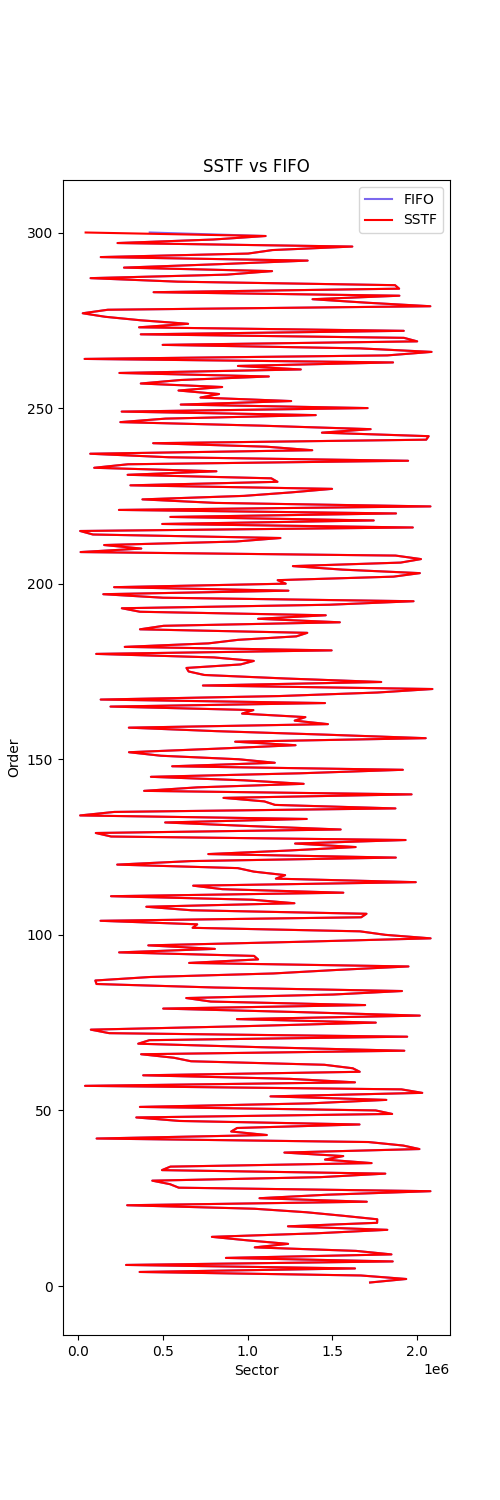
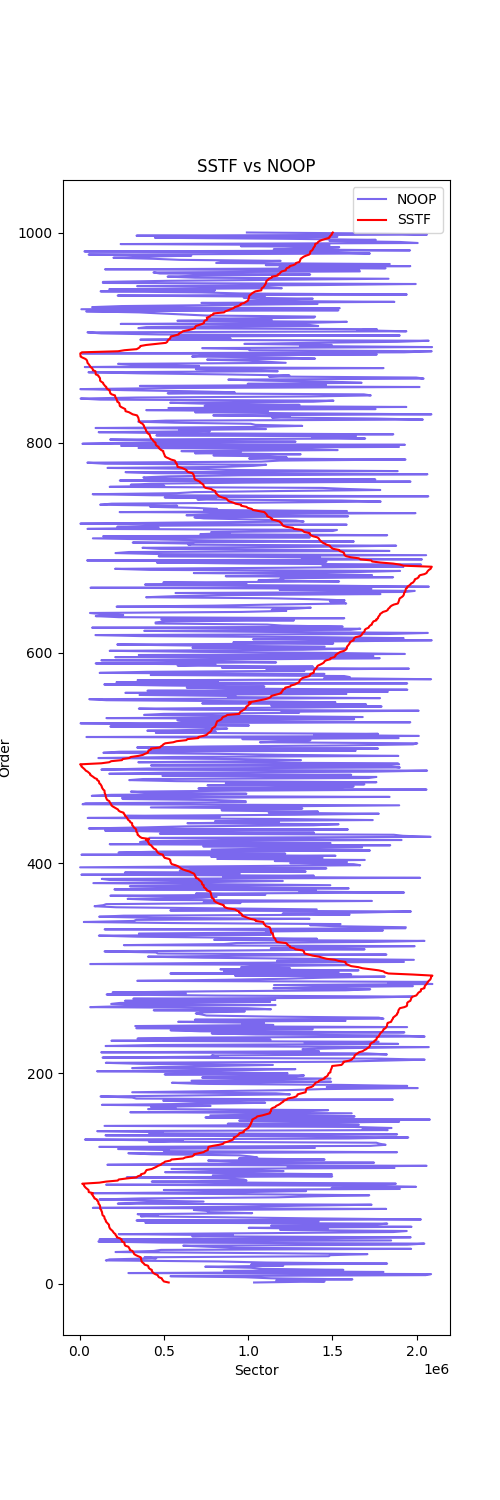
fix: fifo -> noop

diff --git a/labsisop-grp-03/modules/sstf-iosched/plot.py b/labsisop-grp-03/modules/sstf-iosched/plot.py
@@ -5,39 +5,39 @@ y_fifo = []
 x_sstf = []
 y_sstf = []
 
-order_fifo = 1
+order_noop = 1
 order_sstf = 1
-last_sector_fifo = None
+last_sector_noop = None
 last_sector_sstf = None
 fifo_sectors = 0
 sstf_sectors = 0
-end_fifo = False
+end_noop = False
 end_sstf = False
 
 # Read the result.txt file and store the data in the x and y arrays for each algorithm
-with open("result2.txt") as file_in:
+with open("result.txt") as file_in:
     lines = []
     # Read the file line by line
     for line in file_in:
         # If the sector limit is reached, stop reading the file
-        if end_fifo and end_sstf:
+        if end_noop and end_sstf:
             break
         # Separates the sector limits for each algorithm
-        elif order_fifo > 1000:
-            end_fifo = True
+        elif order_noop > 1000:
+            end_noop = True
             if order_sstf > 1000:
                 end_sstf = True
         # Get the sector number
         sector = int(line.split()[3])
         # Treats data for FIFO
-        if "add" in line and not end_fifo:
+        if "add" in line and not end_noop:
             x_fifo.append(sector)
-            y_fifo.append(order_fifo)
-            # Calculates the total sectors traversed by FIFO
-            if last_sector_fifo is not None:
-                fifo_sectors += abs(sector - last_sector_fifo)
-            last_sector_fifo = sector
-            order_fifo += 1
+            y_fifo.append(order_noop)
+            # Calculates the total sectors traversed by NOOP
+            if last_sector_noop is not None:
+                fifo_sectors += abs(sector - last_sector_noop)
+            last_sector_noop = sector
+            order_noop += 1
         # Treats data for SSTF
         if "dsp" in line and not end_sstf:
             x_sstf.append(sector)
@@ -53,16 +53,16 @@ with open("result2.txt") as file_in:
 # Plot the data
 plt.clf()
 plt.figure(figsize=(5, 15))
-plt.plot(x_fifo, y_fifo, label="FIFO", color="mediumslateblue")
+plt.plot(x_fifo, y_fifo, label="NOOP", color="mediumslateblue")
 plt.plot(x_sstf, y_sstf, label="SSTF", color="red")
 plt.legend()
 plt.xlabel("Sector")
 plt.ylabel("Order")
-plt.title("SSTF vs FIFO")
-plt.savefig("plot2.png")
+plt.title("SSTF vs NOOP")
+plt.savefig("plot.png")
 
 
 # Print the total sectors traversed for FIFO
-print("Total sectors traversed by FIFO:", fifo_sectors)
+print("Total sectors traversed by NOOP:", fifo_sectors)
 # Print the total sectors traversed for SSTF
 print("Total sectors traversed by SSTF:", sstf_sectors)
